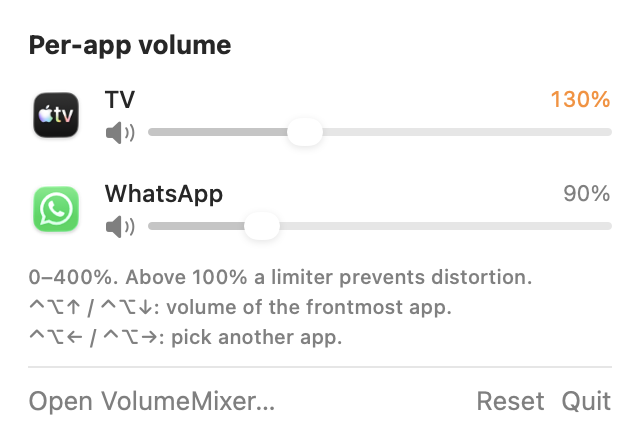
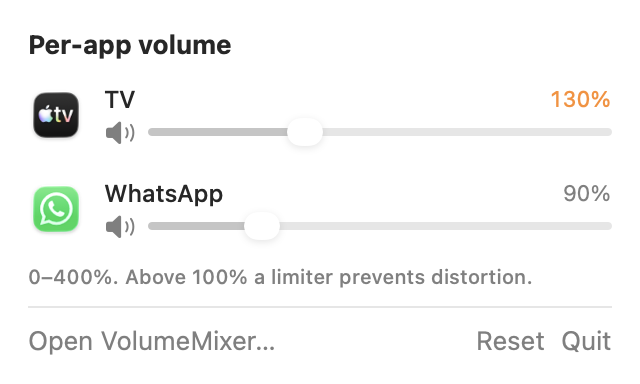
Scorciatoie spiegate con il pulsante ? invece che nel menu; licenza PolyForm Noncommercial 1.0.0 (1.3.0)

diff --git a/Sources/MainWindow.swift b/Sources/MainWindow.swift
@@ -79,32 +79,54 @@ private struct SectionTitle: View {
 
 private struct KeyboardSection: View {
     @AppStorage("hotkeysEnabled") private var enabled = true
+    @StateObject private var help = KeyboardHelp()
 
     var body: some View {
         VStack(alignment: .leading, spacing: 12) {
             SectionTitle(title: "Tastiera",
                          subtitle: "Regola il volume dell'app in primo piano senza aprire VolumeMixer.")
             GroupBox {
-                VStack(alignment: .leading, spacing: 10) {
-                    VStack(alignment: .leading, spacing: 8) {
-                        HStack(spacing: 24) {
-                            shortcut("⌃⌥↑", "Alza del 5%")
-                            shortcut("⌃⌥↓", "Abbassa del 5%")
-                        }
-                        shortcut("⌃⌥← ⌃⌥→", "Scegli un'altra app che sta suonando")
-                        Text("Dopo ⌃⌥← o ⌃⌥→, finché il riquadro è visibile, ⌃⌥↑ e ⌃⌥↓ regolano l'app scelta senza toglierla dal primo piano (comodo con un video a schermo intero).")
-                            .font(.caption).foregroundStyle(.secondary)
-                            .fixedSize(horizontal: false, vertical: true)
-                    }
-                    .opacity(enabled ? 1 : 0.4)
+                HStack {
                     Toggle("Attiva le scorciatoie da tastiera", isOn: $enabled)
                         .toggleStyle(.checkbox)
+                    HelpButton { help.showing = true }
+                        .help("Come funzionano le scorciatoie")
+                    Spacer()
                 }
-                .frame(maxWidth: .infinity, alignment: .leading)
                 .padding(6)
             }
         }
         .onChange(of: enabled) { _, on in HotKeys.shared.setEnabled(on) }
+        .sheet(isPresented: $help.showing) { ShortcutsHelp { help.showing = false } }
+    }
+}
+
+private final class KeyboardHelp: ObservableObject {
+    @Published var showing = false
+}
+
+/// Spiegazione delle scorciatoie, aperta dal punto interrogativo.
+private struct ShortcutsHelp: View {
+    let done: () -> Void
+
+    var body: some View {
+        VStack(alignment: .leading, spacing: 14) {
+            Text("Scorciatoie da tastiera").font(.title3.weight(.semibold))
+            VStack(alignment: .leading, spacing: 8) {
+                shortcut("⌃⌥↑", "Alza del 5%")
+                shortcut("⌃⌥↓", "Abbassa del 5%")
+                shortcut("⌃⌥← ⌃⌥→", "Scegli un'altra app che sta suonando")
+            }
+            Text("Dopo ⌃⌥← o ⌃⌥→, finché il riquadro è visibile, ⌃⌥↑ e ⌃⌥↓ regolano l'app scelta senza toglierla dal primo piano (comodo con un video a schermo intero).")
+                .font(.callout).foregroundStyle(.secondary)
+                .fixedSize(horizontal: false, vertical: true)
+            HStack {
+                Spacer()
+                Button("Fine", action: done).keyboardShortcut(.defaultAction)
+            }
+        }
+        .padding(20)
+        .frame(width: 400)
     }
 
     private func shortcut(_ keys: String, _ label: LocalizedStringKey) -> some View {
@@ -115,6 +137,29 @@ private struct KeyboardSection: View {
                 .background(.quaternary, in: RoundedRectangle(cornerRadius: 6))
             Text(label)
         }
+    }
+}
+
+/// Il pulsante tondo con il punto interrogativo di macOS.
+private struct HelpButton: NSViewRepresentable {
+    let action: () -> Void
+
+    func makeNSView(context: Context) -> NSButton {
+        let button = NSButton(title: "", target: context.coordinator, action: #selector(Coordinator.click))
+        button.bezelStyle = .helpButton
+        return button
+    }
+
+    func updateNSView(_ button: NSButton, context: Context) {
+        context.coordinator.action = action
+    }
+
+    func makeCoordinator() -> Coordinator { Coordinator(action: action) }
+
+    final class Coordinator: NSObject {
+        var action: () -> Void
+        init(action: @escaping () -> Void) { self.action = action }
+        @objc func click() { action() }
     }
 }
 

diff --git a/Sources/MenuView.swift b/Sources/MenuView.swift
@@ -32,7 +32,6 @@ struct AppRow: View {
 
 struct MenuView: View {
     @ObservedObject var mixer: Mixer
-    @AppStorage("hotkeysEnabled") private var hotkeysEnabled = true
 
     var body: some View {
         VStack(alignment: .leading, spacing: 8) {
@@ -56,14 +55,8 @@ struct MenuView: View {
             } else {
                 ForEach(mixer.apps) { AppRow(entry: $0, mixer: mixer) }
             }
-            VStack(alignment: .leading, spacing: 2) {
-                Text("0–400%. Oltre il 100% un limitatore evita la distorsione.")
-                if hotkeysEnabled {
-                    Text("⌃⌥↑ / ⌃⌥↓: volume dell'app in primo piano.")
-                    Text("⌃⌥← / ⌃⌥→: scegli un'altra app.")
-                }
-            }
-            .font(.caption2).foregroundStyle(.secondary)
+            Text("0–400%. Oltre il 100% un limitatore evita la distorsione.")
+                .font(.caption2).foregroundStyle(.secondary)
             Divider()
             HStack {
                 Button("Apri VolumeMixer…") { MainWindowController.shared.show() }

diff --git a/README.it.md b/README.it.md
@@ -14,7 +14,7 @@ L'ho creata per guardare una serie insieme ad altre persone durante una videochi
 ## Funzioni
 
 - **Un cursore per ogni app**, da 0 a 400%. Sopra il 100% un limitatore evita la distorsione.
-- **Scorciatoie da tastiera**: **⌃⌥↑ / ⌃⌥↓** (Control + Option + freccia) alzano o abbassano del 5% il volume dell'app in primo piano; tenendoli premuti il volume continua a cambiare. **⌃⌥← / ⌃⌥→** scelgono un'altra app che sta suonando: finché l'indicatore è visibile, ⌃⌥↑ / ⌃⌥↓ regolano quell'app senza portarla in primo piano, così puoi abbassare la chiamata senza uscire da un video a schermo intero. Un piccolo indicatore in alto mostra il nuovo livello, anche sopra i video a schermo intero. I tasti del volume del Mac continuano a funzionare come sempre. Le scorciatoie si possono disattivare dalla finestra principale.
+- **Scorciatoie da tastiera**: **⌃⌥↑ / ⌃⌥↓** (Control + Option + freccia) alzano o abbassano del 5% il volume dell'app in primo piano; tenendoli premuti il volume continua a cambiare. **⌃⌥← / ⌃⌥→** scelgono un'altra app che sta suonando: finché l'indicatore è visibile, ⌃⌥↑ / ⌃⌥↓ regolano quell'app senza portarla in primo piano, così puoi abbassare la chiamata senza uscire da un video a schermo intero. Un piccolo indicatore in alto mostra il nuovo livello, anche sopra i video a schermo intero. I tasti del volume del Mac continuano a funzionare come sempre. Nella finestra principale puoi disattivarle, e il pulsante **?** accanto alla casella le spiega.
 - **Preset**: salva i volumi attuali e richiamali con un clic.
 - **Ricorda i volumi** di ogni app e li riapplica quando l'app torna a suonare.
 - Si adatta da sola quando cambia l'uscita audio (per esempio se colleghi le cuffie).
@@ -82,6 +82,8 @@ Il codice è in `Sources/`:
 
 ## Licenza
 
-[MIT](LICENSE)
+Dalla versione 1.3.0 VolumeMixer è distribuita con la [PolyForm Noncommercial License 1.0.0](LICENSE): puoi usarla, studiarla, modificarla e condividerla gratuitamente, purché non a scopo commerciale. Per venderla o usarla commercialmente serve una licenza a parte: [apri una issue](https://github.com/petruzzellabeatrice/VolumeMixer/issues) per chiederla.
+
+Le versioni fino alla 1.2.0 comprese sono state distribuite con licenza MIT e restano disponibili con quella licenza.
 
 Questo progetto non è affiliato ad Apple, WhatsApp o alle altre app citate.

diff --git a/README.md b/README.md
@@ -14,7 +14,7 @@ I built it for watching a series together while on a video call: the call was al
 ## Features
 
 - **One slider per app**, from 0 to 400%. Above 100% a soft limiter keeps the sound from distorting.
-- **Keyboard shortcuts**: **⌃⌥↑ / ⌃⌥↓** (Control + Option + arrow) raise or lower the volume of the frontmost app by 5%; hold them to keep going. **⌃⌥← / ⌃⌥→** pick another app that is playing: while the indicator is visible, ⌃⌥↑ / ⌃⌥↓ adjust that app without bringing it to the front, so you can turn down the call without leaving a full-screen video. A small indicator at the top of the screen shows the new level, even over full-screen video. The Mac's own volume keys keep working as usual. The shortcuts can be turned off in the main window.
+- **Keyboard shortcuts**: **⌃⌥↑ / ⌃⌥↓** (Control + Option + arrow) raise or lower the volume of the frontmost app by 5%; hold them to keep going. **⌃⌥← / ⌃⌥→** pick another app that is playing: while the indicator is visible, ⌃⌥↑ / ⌃⌥↓ adjust that app without bringing it to the front, so you can turn down the call without leaving a full-screen video. A small indicator at the top of the screen shows the new level, even over full-screen video. The Mac's own volume keys keep working as usual. In the main window you can turn them off, and the **?** button next to the checkbox explains them.
 - **Presets**: save the current volumes and recall them with one click.
 - **Remembers your volumes** for each app and reapplies them when the app starts playing again.
 - Follows output changes (for example plugging in headphones).
@@ -82,6 +82,8 @@ The code is in `Sources/`:
 
 ## License
 
-[MIT](LICENSE)
+Since version 1.3.0, VolumeMixer is released under the [PolyForm Noncommercial License 1.0.0](LICENSE): you can use, study, modify and share it for free, as long as it is not for commercial purposes. Selling it or using it commercially requires a separate license: [open an issue](https://github.com/petruzzellabeatrice/VolumeMixer/issues) to ask.
+
+Versions up to and including 1.2.0 were released under the MIT License and remain available under it.
 
 This project is not affiliated with Apple, WhatsApp or any other app mentioned.
